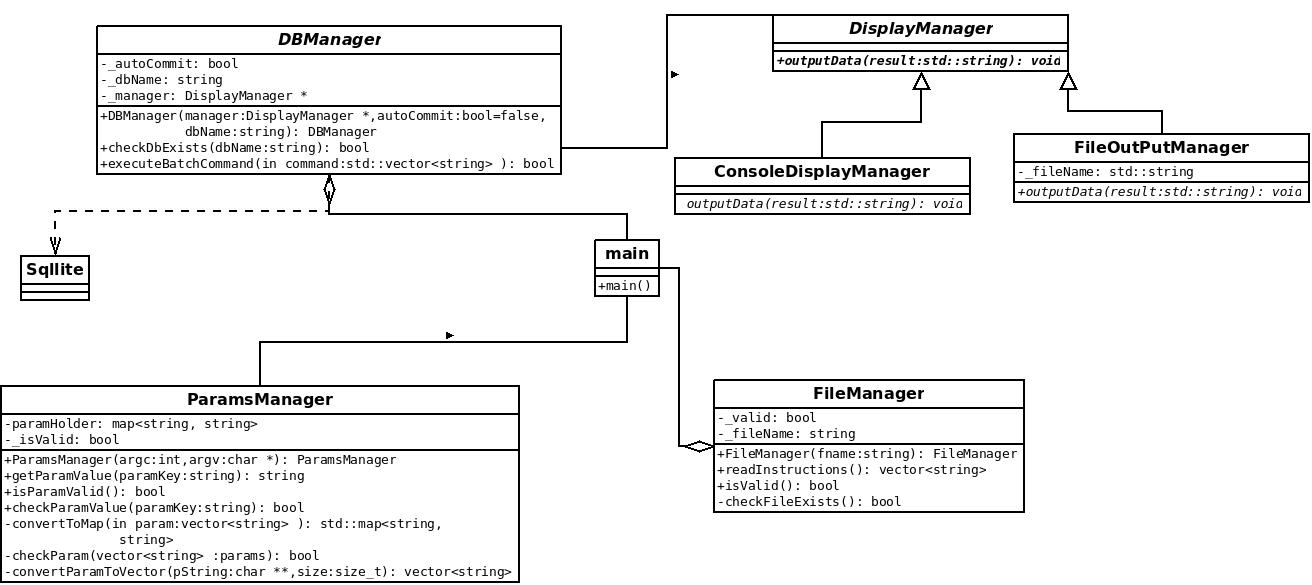
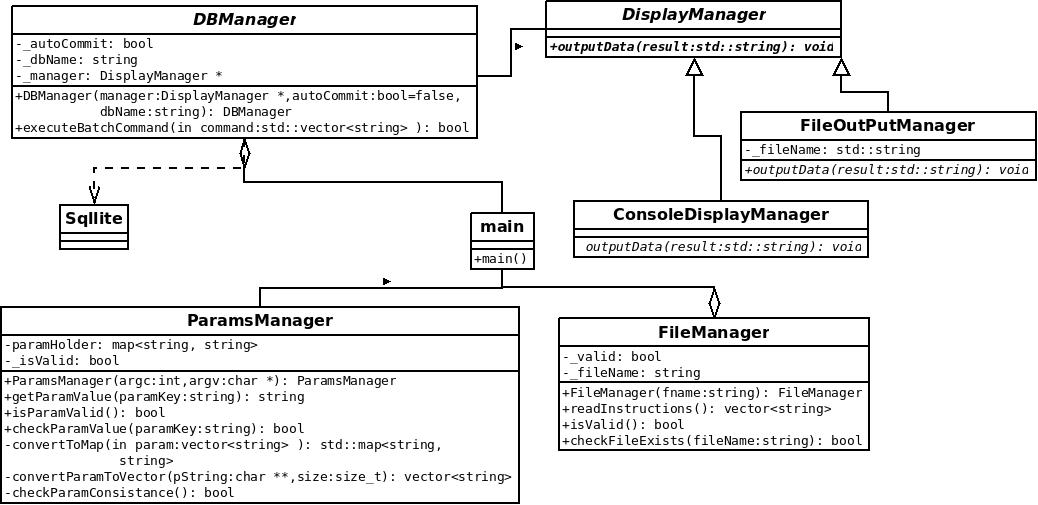
Рефакторинг менеджеров параметров и работы с БД

Changed region(s): [[0.0, 0.0, 1.0, 1.0], [0.0, 0.3564, 0.1233, 0.5347]]

diff --git a/managers/ParamsManager.cpp b/managers/ParamsManager.cpp
@@ -5,6 +5,7 @@
 #include <iostream>
 #include "ParamsManager.h"
 #include "../utils/CLog.h"
+#include "FileManager.h"
 
 #ifndef DEBUG
 #define DEBUG  true
@@ -22,49 +23,49 @@ std::map<string, string> ParamsManager::convertToMap(vector<string> param) {
 }
 
 static void printHelp() {
-    std::cout << "Допустимые ключи:\n";
-    std::cout << "-d   = Имя базы данных\n";
-    std::cout << "-f   = Путь к файлу с коммандой для БД\n";
-    std::cout << "-q   = Инструкция задана из  коммандной строки";
-    std::cout << "-o   = Режим вывода  результатов FILE – вывод в файл, CONSOLE – вывод в Консоль";
-    std::cout << "-of  = Файл с результатами выполнения инструкций";
-    std::cout << "-h   = Помощь";
+    fprintf(stdout,  "Допустимые ключи: \n");
+    fprintf(stdout,  "-d   = Имя базы данных\n");
+    fprintf(stdout,  "-f   = Путь к файлу с коммандой для БД\n");
+    fprintf(stdout,  "-q   = Инструкция задана из  коммандной строки\n");
+    fprintf(stdout,  "-o   = Режим вывода  результатов FILE – вывод в файл, CONSOLE – вывод в Консоль\n");
+    fprintf(stdout,  "-of  = Файл с результатами выполнения инструкций\n");
+    fprintf(stdout,  "-h   = Помощь\n");
 }
 
 bool checkParamCode(string paramKey, string paramValue) {
-    /* TODO validation
-     * if( (paramKey == "-f" || paramKey == "-d" ) && ! paramValue->empty()) {
-         return true;
-     }*/
+
+
+    if (paramKey == "-f" && ! FileManager::checkFileExists(paramValue)) return false;
     return true;
 }
 
-bool ParamsManager::checkParam(vector<string> params) {
-    if (params.size() < 1) {
-        std::cout << "Неверное количество параметров:\n";
-        std::cout << "use -help \n";
-        return 1;
-    }
-    if (params.size() > 1) {
-        for (int i = 1; i < params.size(); i++) {
-            string arg = params[i];
-            string arg2;
-            if (i < params.size() - 1 && (arg == "-f" || arg == "-h")) {
-                arg2 = params[i + 1];;
-            }
 
-            if (arg == "-h") {
-                printHelp();
-                return false;
-            }
-            if (!checkParamCode(arg, arg2)) {
-                std::cout << "Параметры указаны не верно:\n";
-                printHelp();
-                return false;
-            }
-        }
-        return true;
+bool ParamsManager::checkParamConsistance() {
+
+    if (paramHolder.find("-d") == paramHolder.end()) {
+        fprintf(stderr, "Не задано имя БД: -d / -f\n");
+        return false;
     }
+    if (paramHolder.find("-o") == paramHolder.end()) {
+        fprintf(stderr, "Не задан формат вывода -0 / -f\n");
+        return false;
+    }
+
+    if (paramHolder.find("-q") == paramHolder.end() && paramHolder.find("-f") == paramHolder.end()
+            ) {
+        fprintf(stderr, "Не задан источник для выполнения инструкций: -q / -f\n");
+        return false;
+    }
+    if (paramHolder["-o"] != "FILE" && paramHolder["-o"] != "CONSOLE") {
+        fprintf(stderr, "Не задан формат для вывода результатов: -o\n");
+        return false;
+    }
+    if (paramHolder["-o"] == "FILE" && paramHolder.find("-of") == paramHolder.end()) {
+        fprintf(stderr, "Не задано имя файла для вывода результатов: -of\n");
+        return false;
+    }
+    return  true;
+
 }
 
 vector<string> ParamsManager::convertParamToVector(char **pString, size_t size) {
@@ -82,25 +83,38 @@ ParamsManager::ParamsManager(int argc, char **argv) : _isValid(false) {
     }
     if (argc > 1) {
         for (int i = 1; i < argc; i++) {
+
             string arg = argv[i];
-            string arg2;
-            if (i < argc - 1 && (arg == "-f" || arg == "-h")) {
-                arg2 = argv[i + 1];;
-            }
             if (arg == "-h") {
                 printHelp();
+                _isValid = false;
                 return;
             }
+            string arg2;
+            if (i < argc - 1 && (arg == "-f" ||
+                                 arg == "-d" ||
+                                 arg == "-q" ||
+                                 arg == "-of" ||
+                                 arg == "-o"
+            )) {
+                arg2 = argv[i + 1];;
+            }
+
             if (!checkParamCode(arg, arg2)) {
-                std::cout << "Параметры указаны не верно:\n";
+
+                fprintf(stderr, "Параметры указаны не верно: %s\n" , arg);
                 printHelp();
+                _isValid = false;
                 return;
             }
         }
+        CLog::Write(CLog::Debug, string("convert param to  vector"));
         vector<string> tmp = convertParamToVector(argv, argc);
+        CLog::Write(CLog::Debug, string("Convert param to map"));
         paramHolder = convertToMap(tmp);
-        CLog::Write(CLog::Debug, string("ParamHolder=" + to_string(paramHolder.size())).c_str());
-        _isValid = true;
+        CLog::Write(CLog::Debug, string("validate param"));
+
+        _isValid = checkParamConsistance();
     }
 }
 

diff --git a/managers/DBManager.cpp b/managers/DBManager.cpp
@@ -3,9 +3,9 @@
 //
 #include <stdio.h>
 #include "DBManager.h"
-#include <iostream>
 #include "sqlite3.h"
 #include "../utils/CLog.h"
+#include "FileManager.h"
 
 static int callback(void *NotUsed, int argc, char **argv, char **szColName) {
 
@@ -16,42 +16,58 @@ static int callback(void *NotUsed, int argc, char **argv, char **szColName) {
     return 0;
 }
 
-bool DBManager::executeBatchCommand(std::vector<string> command) {
-    for (auto c : command) {
-        executeQuery(c);
-    }
-    return false;
-}
-
-int DBManager::executeQuery(std::string command) {
+int DBManager::executeQuery(std::vector<string> command) {
 
     sqlite3 *db;
     int rc;
     char *zErrMsg = 0;
+    try {
 
-    rc = sqlite3_open(_dbName.c_str(), &db);
-    if (rc) {
-        fprintf(stderr, "Не возможно открыть базу данных: %s\n", sqlite3_errmsg(db));
-        return (0);
-    } else {
-        CLog::Write(CLog::Debug, "База открыта успешно");
-    }
-    rc = sqlite3_exec(db, command.c_str(), callback, _manager, &zErrMsg);
-    if (rc != SQLITE_OK) {
+        rc = sqlite3_open(_dbName.c_str(), &db);
+
+        if (rc) {
+            fprintf(stderr, "Не возможно открыть базу данных: %s\n", sqlite3_errmsg(db));
+            return (0);
+        } else {
+            CLog::Write(CLog::Debug, "База открыта успешно");
+        }
+        if (_autoCommit) {
+            sqlite3_exec(db, "BEGIN TRANSACTION;", NULL, NULL, NULL);
+        }
+        for (auto c : command) {
+            rc = sqlite3_exec(db, c.c_str(), callback, _manager, &zErrMsg);
+            if (rc != SQLITE_OK) {
+                fprintf(stderr, "Ошибка при выполнении SQL инструкции: %s\n", zErrMsg);
+                sqlite3_free(zErrMsg);
+
+                if (_autoCommit) {
+                    sqlite3_exec(db, "ROLLBACK TRANSACTION;", NULL, NULL, NULL);
+                }
+                throw;
+            } else {
+                CLog::Write(CLog::Debug, "SQL инструкция успешно обработана:" + c);
+
+            }
+        }
+        if (_autoCommit) {
+            sqlite3_exec(db, "END TRANSACTION;", NULL, NULL, NULL);
+        }
+        sqlite3_close(db);
+    } catch (exception e) {
         fprintf(stderr, "Ошибка при выполнении SQL инструкции: %s\n", zErrMsg);
-        sqlite3_free(zErrMsg);
-    } else {
-        fprintf(stdout, "SQL инструкция успешно обработана\n");
+        try {
+            sqlite3_close(db);
+        } catch (exception ee) { ;
+        }
     }
-    sqlite3_close(db);
     return 0;
 }
 
 
-bool DBManager::checkDbExists(std::string dbName) {
-    return false;
-}
-
 DBManager::DBManager(DisplayManager *manager, string dbName, bool autoCommit)
         : _autoCommit(autoCommit), _dbName(dbName), _manager(manager) {
+    if (!FileManager::checkFileExists(dbName)) {
+        CLog::Write(CLog::Debug, "База " + dbName + " отсутсвует и будет создана \n");
+    }
+
 }

diff --git a/main.cpp b/main.cpp
@@ -14,13 +14,13 @@ using namespace std;
 
 
 int main(int argc, char *argv[]) {
-    std::cout << "Program started" << std::endl;
+    fprintf(stdout,  "Обработка запроса начата\n" );
     ParamsManager u(argc, argv);
     DisplayManager *dpm;
     CLog::SetLevel(CLog::Debug);
 
     if (!u.isParamValid()) {
-        std::cout << "Ошибочные пераметры. Работа программы прекращена" << std::endl;
+        fprintf(stderr, "Ошибочные пераметры. Работа программы прекращена\n" );
         return 1;
     }
     vector<string> instructions;
@@ -52,9 +52,9 @@ int main(int argc, char *argv[]) {
 
     DBManager dbm(dpm, dbName, true);
 
-    dbm.executeBatchCommand(instructions);
+    dbm.executeQuery(instructions);
 
-    std::cout << "Успешное завершение работы программы" << std::endl;
+    fprintf(stdout, "Успешное завершение работы программы\n");
     return 0;
 }
 

diff --git a/managers/FileManager.cpp b/managers/FileManager.cpp
@@ -26,6 +26,19 @@ bool FileManager::checkFileExists() {
     }
 }
 
+bool FileManager::checkFileExists(string fileName) {
+    if (FILE *file = fopen(fileName.c_str(), "r")) {
+        fclose(file);
+        return true;
+    } else {
+
+        return false;
+    }
+}
+
+
+
+
 std::vector<string> FileManager::readInstructions() {
     vector<string> result;
     std::string line;
@@ -35,5 +48,5 @@ std::vector<string> FileManager::readInstructions() {
         CLog::Write(CLog::Debug, "Read instr:" + line);
     }
     infile.close();
-    return vector<string>();
+    return result;
 };

diff --git a/managers/DBManager.h b/managers/DBManager.h
@@ -13,17 +13,14 @@ class DBManager {
 public:
 
     DBManager(DisplayManager *manager , string dbName , bool autoCommit = false);
-
-    static bool checkDbExists(std::string dbName);
-
-    bool executeBatchCommand(std::vector<string> command);
-
-    int executeQuery(std::string command);
+   int executeQuery(vector<string> command);
 
 private:
     bool  _autoCommit;
     DisplayManager *_manager;
     string _dbName;
+
+
 };
 
 

diff --git a/managers/ParamsManager.h b/managers/ParamsManager.h
@@ -16,11 +16,12 @@ public:
     ~ParamsManager();
 private:
     vector<string> convertParamToVector(char **pString, size_t size);
-    bool checkParam(vector<string> params);
+
     bool _isValid;
     map<string, string> paramHolder;
     std::map<string, string> convertToMap(vector<string> param);
 
+    bool checkParamConsistance();
 };
 
 #endif //SQLLITE_CONSOLE_UTILS_H

diff --git a/managers/FileManager.h b/managers/FileManager.h
@@ -18,10 +18,14 @@ public:
     std::vector<string> readInstructions();
     bool isValid() { return  _valid ;};
 
+     bool checkFileExists();
+
+    static bool checkFileExists(string fileName);
+
 private:
     bool  _valid;
     string _fileName;
-    bool checkFileExists();
+
 };
 
 

diff --git a/managers/ConsoleDisplayManager.cpp b/managers/ConsoleDisplayManager.cpp
@@ -6,5 +6,5 @@
 #include "ConsoleDisplayManager.h"
 
 void ConsoleDisplayManager::outputData(std::string result) {
-    std::cout << "Result:"<<  result << std::endl;
+   fprintf( stdout , "Result: %s\n " ,  result.c_str()  );
 }
